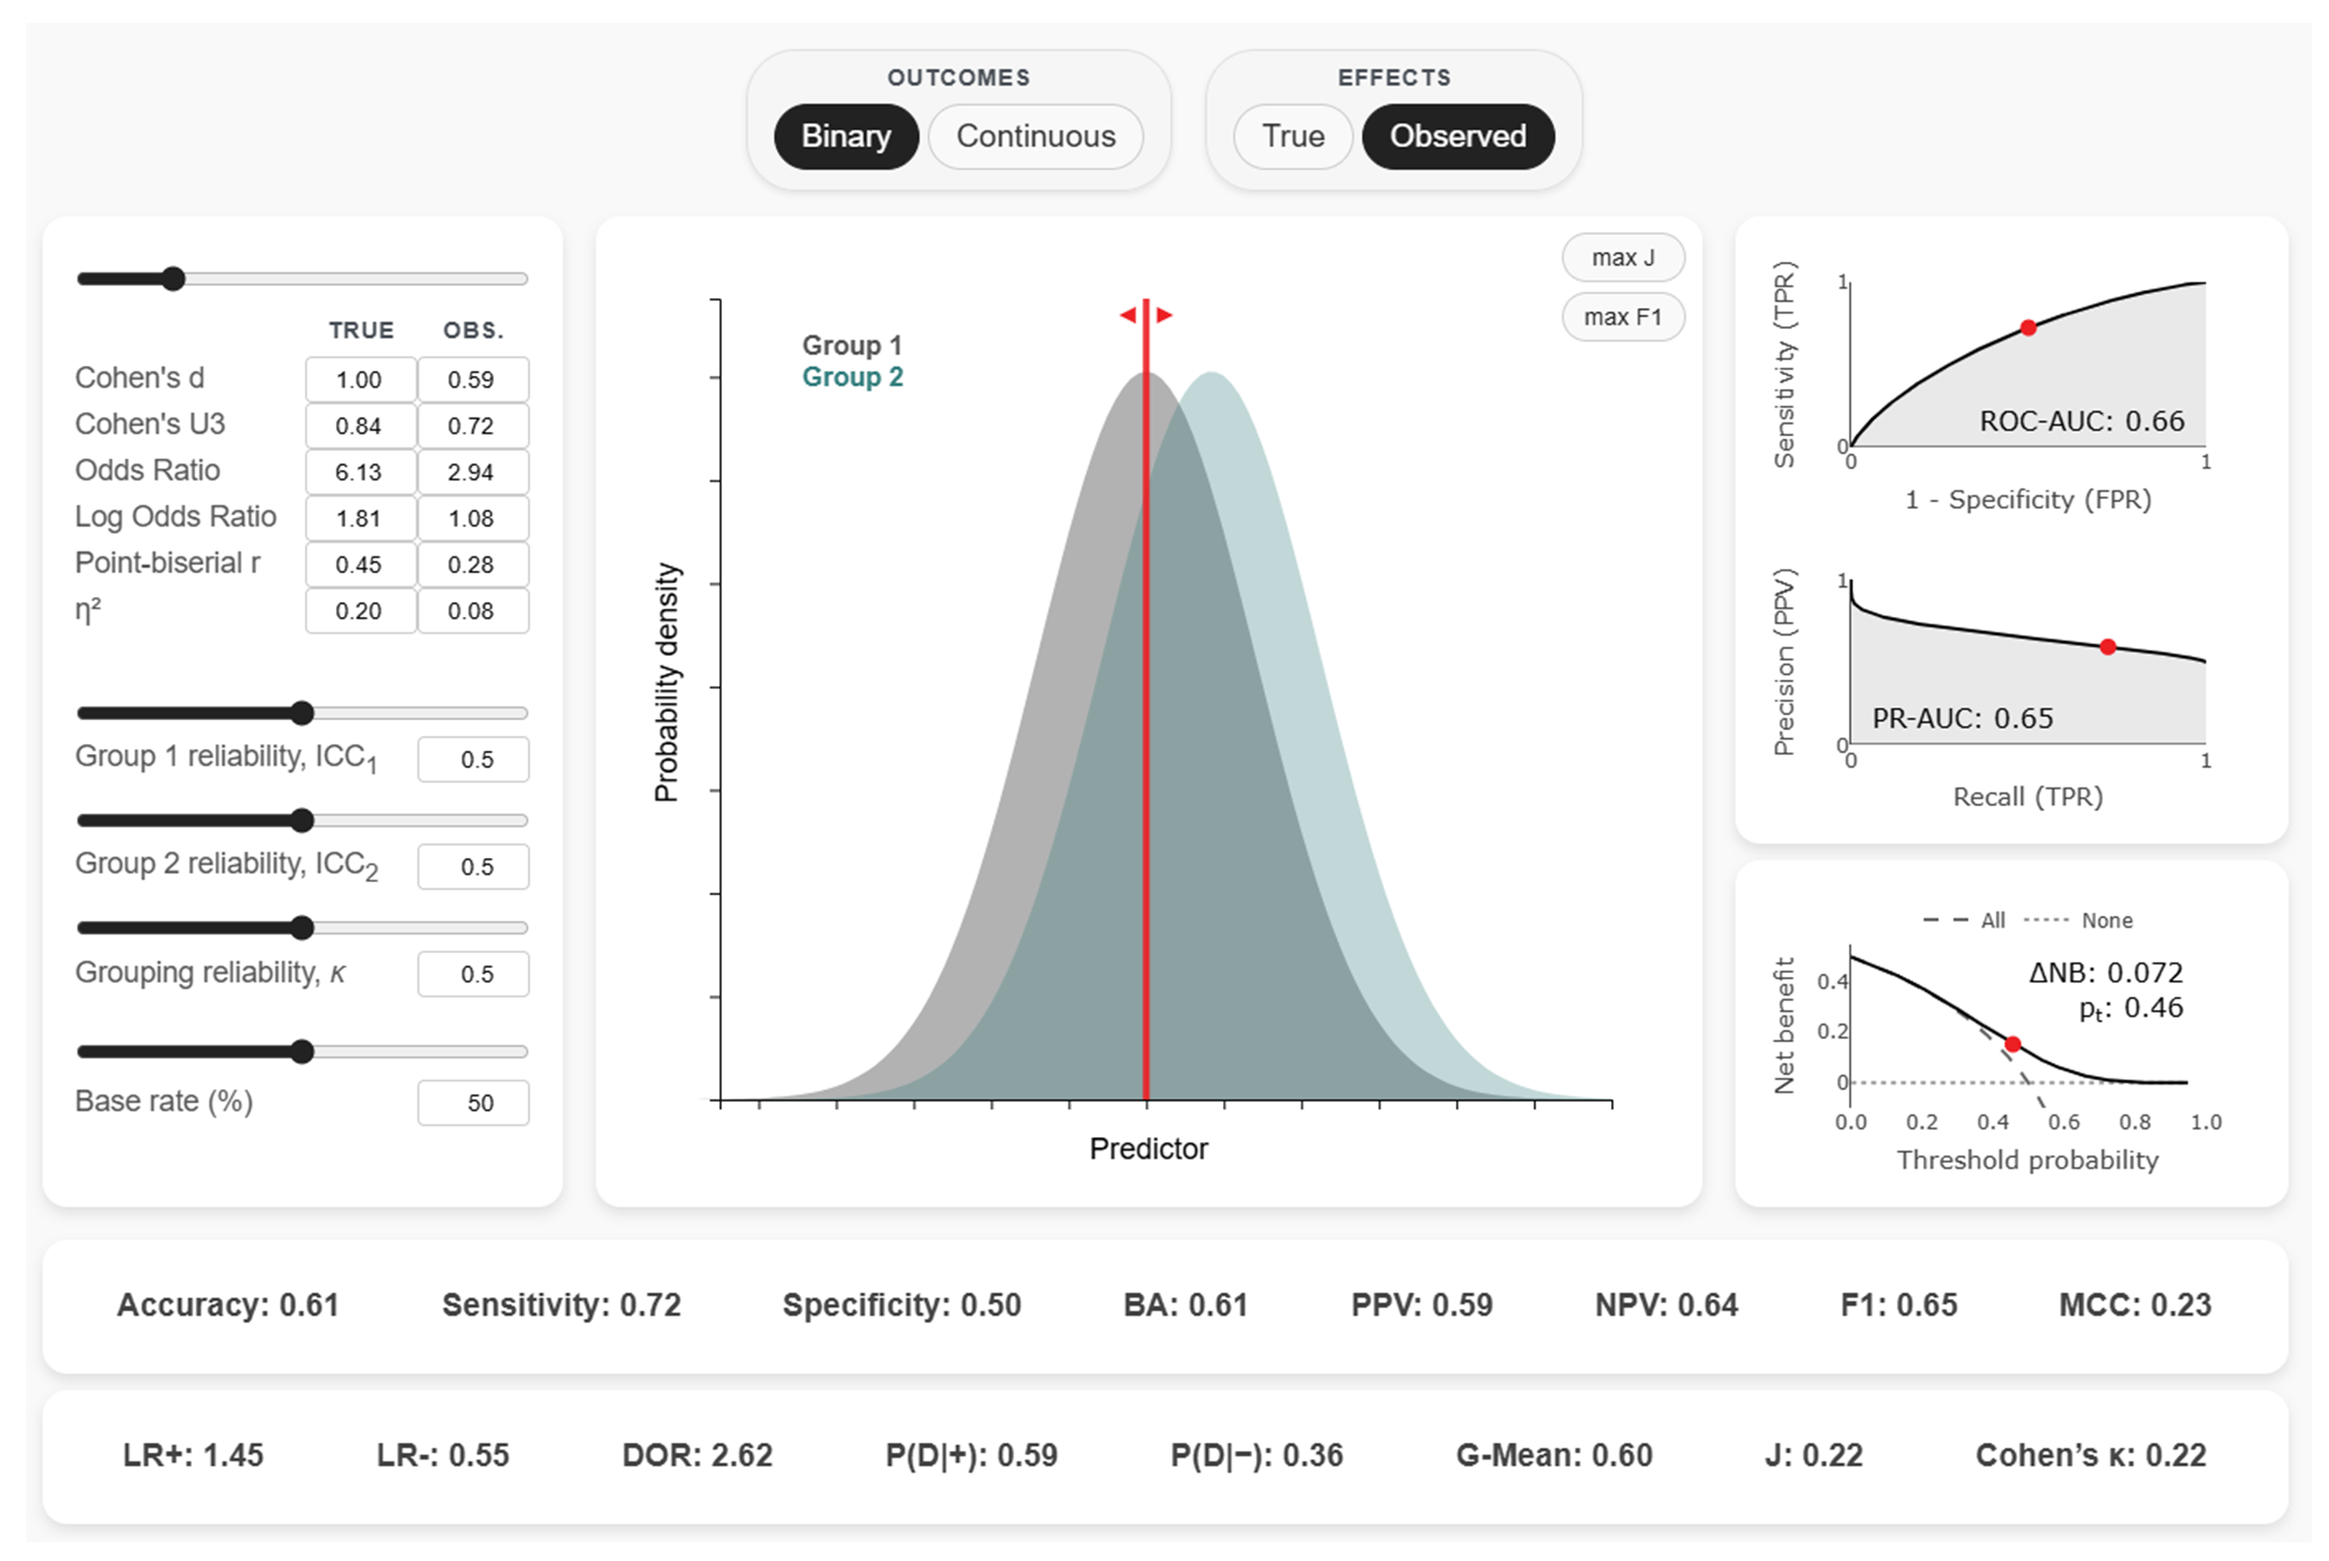
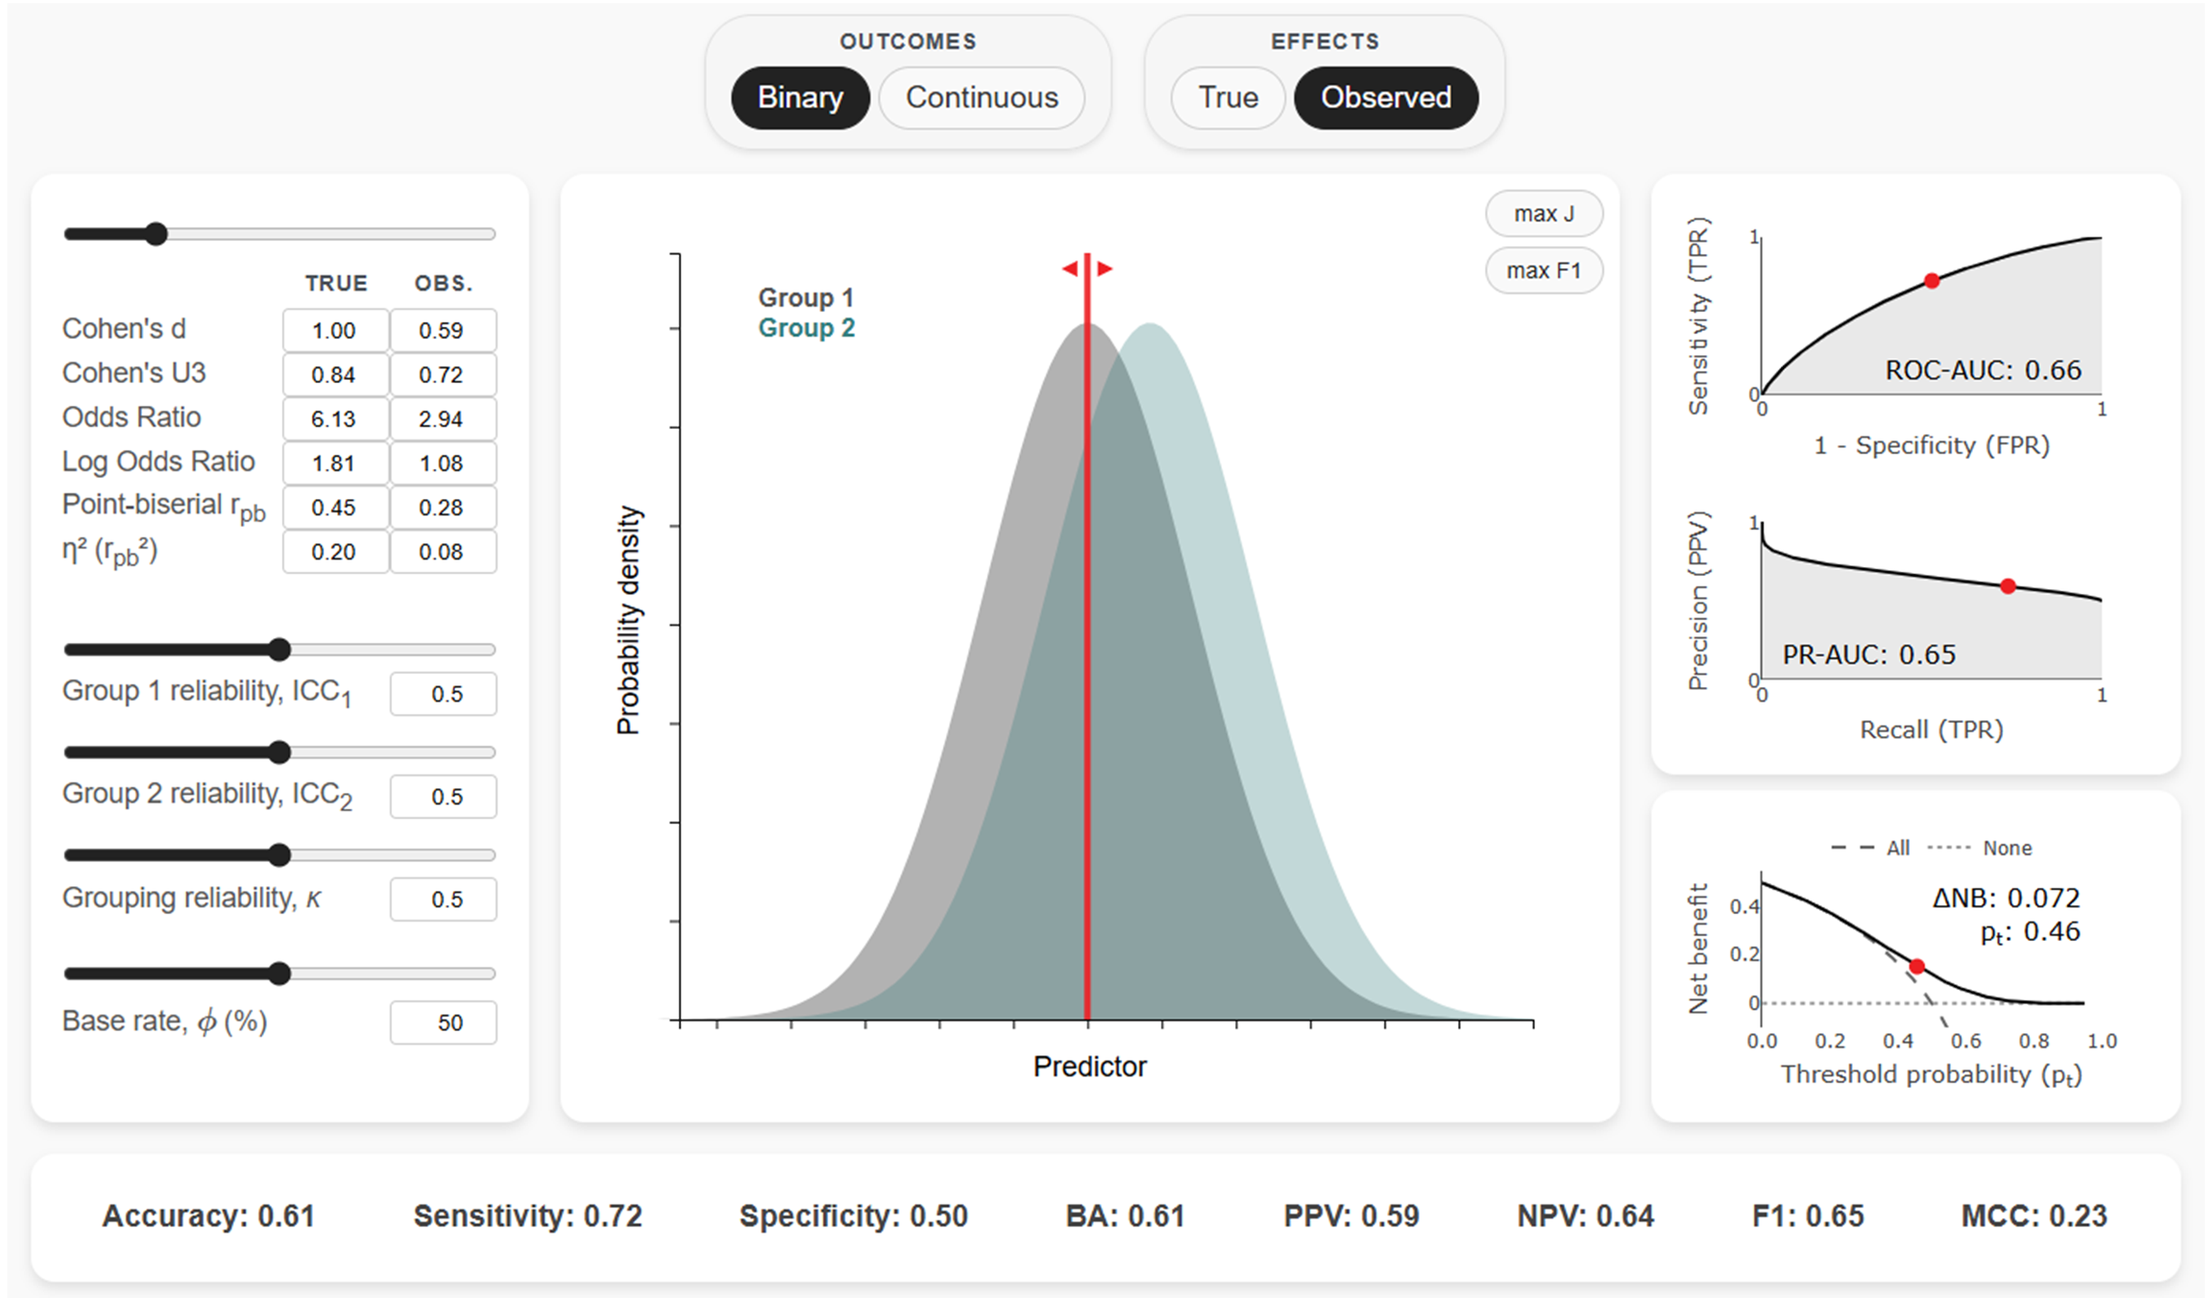
updated figures

diff --git a/js/dca.js b/js/dca.js
@@ -263,7 +263,7 @@ const DCAModule = {
                     dtick: 0.2
                 },
                 yaxis: { 
-                    title: "Net benefit", 
+                    title: "Net benefit (NB)", 
                     showgrid: false, 
                     zeroline: false,
                     titlefont: { size: 15 }
